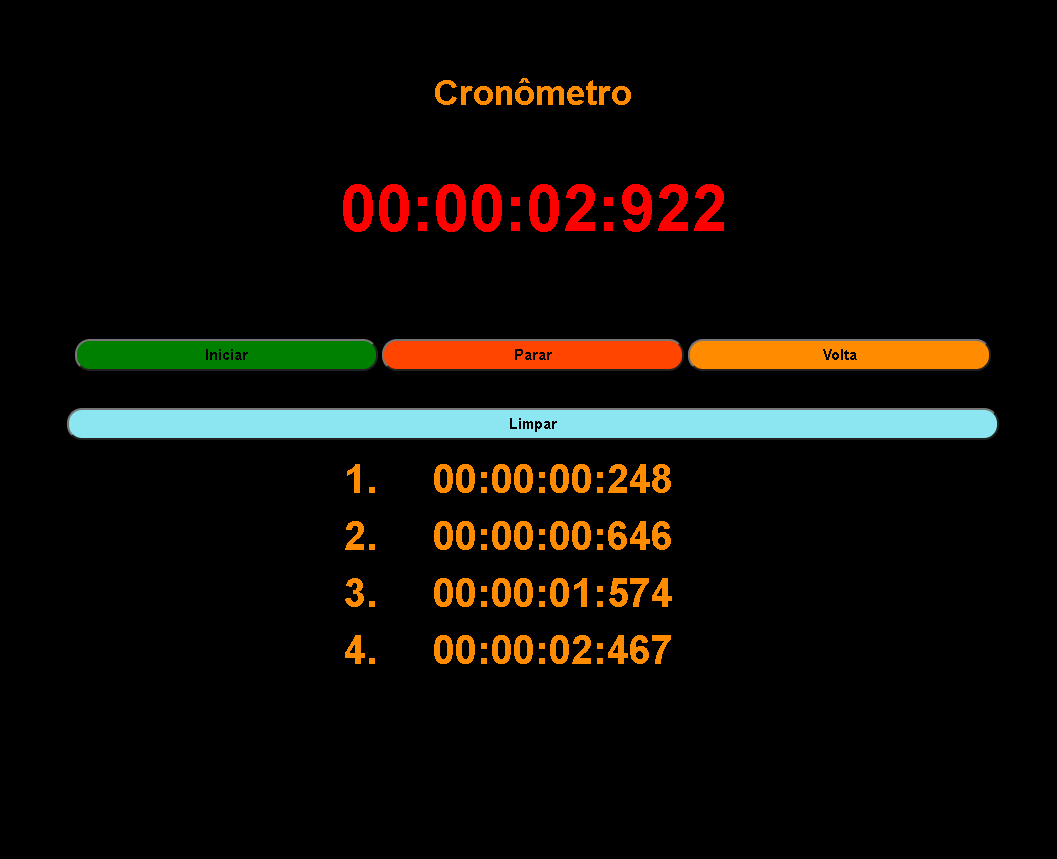
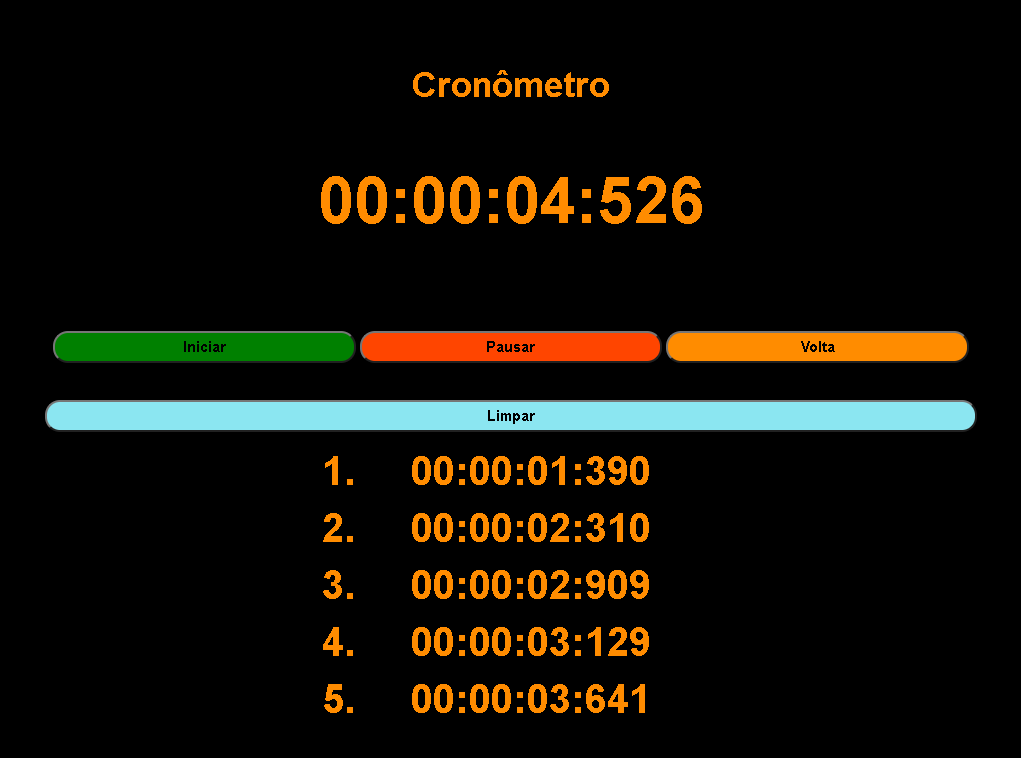
Corrigido nome do botão

diff --git a/index.html b/index.html
@@ -16,7 +16,7 @@
                 </div>
 
                 <button style="background-color: green" id="start" class="button">Iniciar</button>
-                <button id="stop" class="button" style="background-color: #FF4500;">Parar</button>
+                <button id="stop" class="button" style="background-color: #FF4500;">Pausar</button>
                 <button id="split" class="button"disabled>Volta</button>
                 <button id="clear" class="button" style="width: 100%; background-color: #8be6f1;">Limpar</button>
                 
